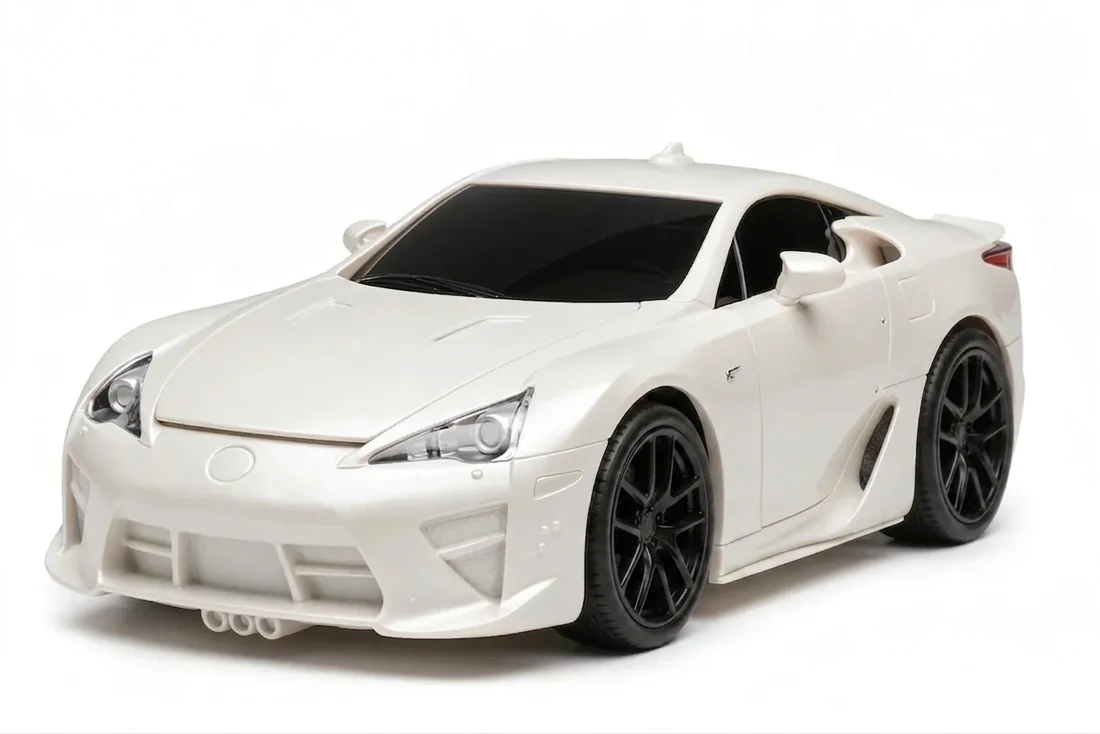
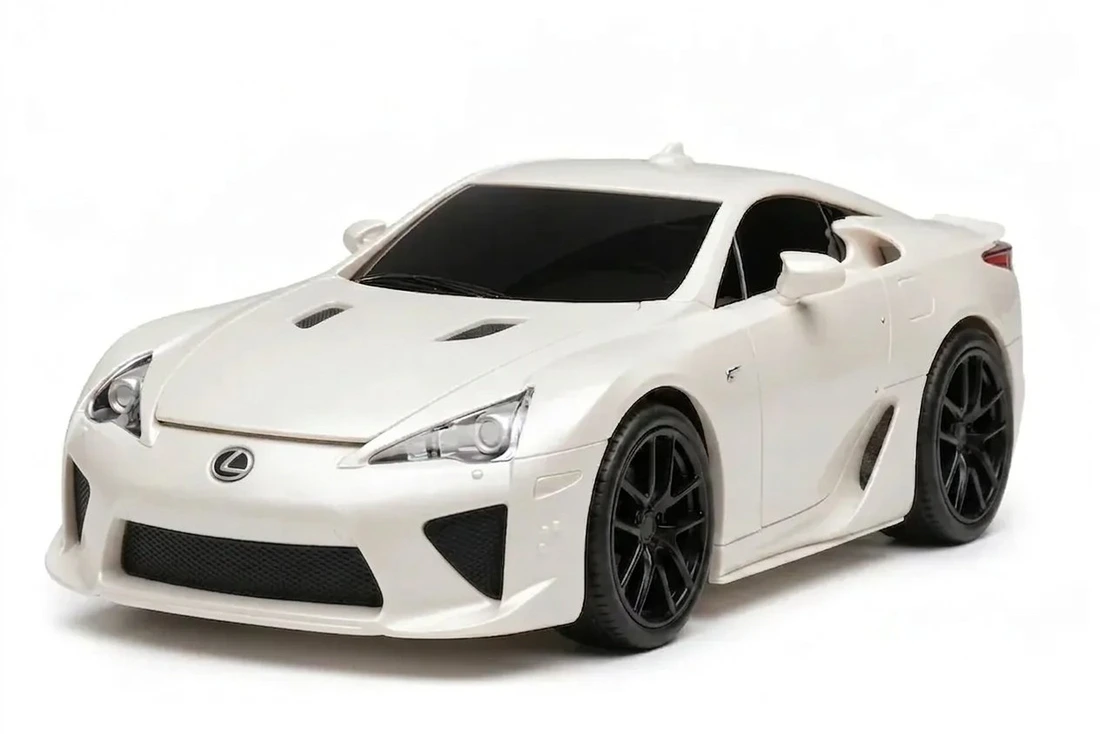
fix(assets): correct Lexus LFA front bumper intakes to black and rear exhaust to inverted triangle in black diffuser

diff --git a/produccion/referencias/lfa/README.md b/produccion/referencias/lfa/README.md
@@ -25,6 +25,6 @@ _Todas las vistas disponibles forman parte del set principal._
 
 ## 📝 3. OBSERVACIONES CLAVE PARA MODELADO Y SEGMENTACIÓN
 
-- **Identidad Geométrica:** Blanco perla Whitest White, triple salida de escape triangular central trasera característica, difusor de carbono, alerón activo retraído y tomas de aire traseras en montante C.
+- **Identidad Geométrica:** Blanco perla Whitest White, triple salida de escape triangular central trasera en triángulo invertido (2 arriba, 1 abajo) integrada en difusor negro mate/carbono, calandras de entrada de aire del parachoques delantero en negro, alerón activo retraído y tomas de aire traseras en montante C.
 - **Fondo y Calibración:** Fondo blanco neutro continuo con sombra suave de contacto.
 - **Flujo de Producción:** `produccion/referencias/lfa/` ➔ `Tripo3D` ➔ `lfa_raw.glb` ➔ `Blender Pipeline` ➔ `lfa_master`.
